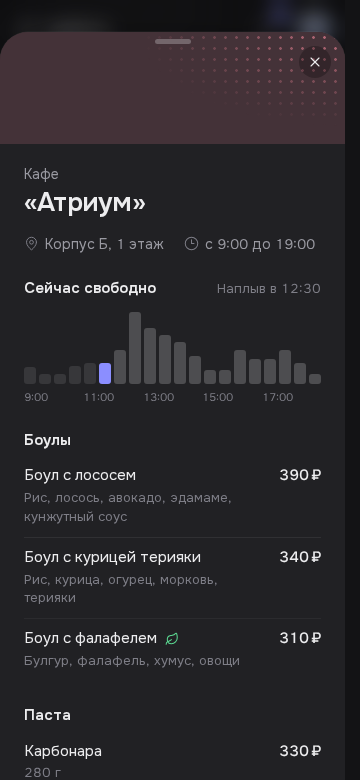
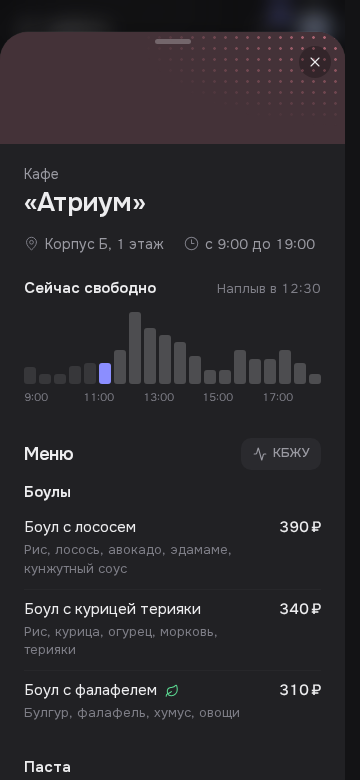
Еда: КБЖУ блюд по переключателю
У всех блюд — калории, белки, жиры и углеводы на порцию. Переключатель
«КБЖУ» над меню, по умолчанию скрыто, запоминается между заведениями.
В food-check — КБЖУ у каждого блюда во всех заведениях.

diff --git a/web/src/server/data/food.ts b/web/src/server/data/food.ts
@@ -259,6 +259,70 @@ const VENUES: Venue[] = [
   },
 ];
 
+/** КБЖУ на порцию: ккал, белки, жиры, углеводы (г). */
+const KBJU: Record<string, [number, number, number, number]> = {
+  "Комплексный обед": [885, 31, 45, 87],
+  "Вегетарианский обед": [670, 23, 27, 82],
+  "Борщ со сметаной": [150, 6, 7, 16],
+  "Суп-пюре из тыквы": [140, 3, 6, 18],
+  "Куриный суп с лапшой": [130, 9, 4, 14],
+  "Котлета по-киевски": [380, 20, 26, 14],
+  "Гуляш из говядины": [250, 22, 16, 5],
+  "Минтай, запечённый с сыром": [190, 24, 9, 3],
+  "Сырники со сметаной": [330, 18, 14, 32],
+  "Картофельное пюре": [135, 3, 5, 20],
+  "Гречка с маслом": [165, 6, 4, 27],
+  "Рис с овощами": [150, 3, 3, 28],
+  "Овощи гриль": [90, 2, 6, 8],
+  "Винегрет": [110, 2, 7, 10],
+  "Оливье": [200, 6, 16, 8],
+  "Цезарь с курицей": [310, 18, 22, 10],
+  "Пирожок с капустой": [190, 5, 6, 29],
+  "Морс клюквенный": [110, 0, 0, 27],
+  "Компот из сухофруктов": [90, 0, 0, 22],
+  "Чай чёрный": [2, 0, 0, 0],
+  "Эспрессо": [5, 0, 0, 1],
+  "Американо": [10, 0, 0, 2],
+  "Капучино": [110, 6, 6, 9],
+  "Флэт уайт": [120, 6, 7, 9],
+  "Раф ванильный": [290, 5, 18, 27],
+  "Латте «Пряная тыква»": [260, 7, 9, 38],
+  "Матча-латте": [180, 7, 7, 22],
+  "Какао с маршмеллоу": [260, 8, 9, 38],
+  "Чай листовой": [2, 0, 0, 0],
+  "Облепиховый чай": [120, 0, 2, 26],
+  "Круассан с ветчиной и сыром": [420, 17, 25, 32],
+  "Сэндвич с индейкой": [380, 24, 12, 42],
+  "Сэндвич с хумусом и овощами": [340, 11, 12, 46],
+  "Чизкейк «Нью-Йорк»": [400, 8, 27, 32],
+  "Печенье овсяное": [180, 3, 7, 27],
+  "Боул с лососем": [620, 30, 24, 68],
+  "Боул с курицей терияки": [560, 34, 12, 76],
+  "Боул с фалафелем": [520, 17, 20, 66],
+  "Карбонара": [610, 24, 28, 64],
+  "Паста с томатами и базиликом": [420, 13, 10, 70],
+  "Паста с грибами в сливках": [560, 15, 26, 66],
+  "Том ям с креветками": [210, 16, 12, 9],
+  "Крем-суп из шампиньонов": [180, 5, 13, 11],
+  "Шакшука": [260, 14, 18, 11],
+  "Гранола с йогуртом и ягодами": [330, 11, 12, 45],
+  "Омлет с сыром и зеленью": [310, 20, 24, 3],
+  "Чай в чайнике": [4, 0, 0, 1],
+  "Глинтвейн безалкогольный": [150, 0, 0, 37],
+  "Лимонад «Имбирь и лайм»": [140, 0, 0, 35],
+  "Тыквенный пирог": [360, 5, 17, 46],
+  "Брауни": [370, 5, 22, 38],
+  "Сэндвич с моцареллой и песто": [410, 16, 20, 40],
+  "Фруктовая тарелка": [100, 1, 0, 23],
+  "Смузи «Банан и шпинат»": [210, 5, 2, 44],
+  "Смузи ягодный": [190, 3, 1, 42],
+  "Апельсиновый фреш": [135, 2, 0, 31],
+  "Протеиновый коктейль": [260, 30, 5, 22],
+  "Овсянка с ягодами": [280, 9, 7, 45],
+  "Ролл с курицей": [420, 26, 14, 46],
+  "Протеиновый батончик": [200, 20, 7, 15],
+};
+
 const hhmm = (m: number) => `${String(Math.floor(m / 60)).padStart(2, "0")}:${String(m % 60).padStart(2, "0")}`;
 
 /** Перемены между парами: [конец пары, начало следующей] в минутах. */
@@ -318,7 +382,7 @@ export async function getFood(): Promise<VenueView[]> {
       close: v.close,
       color: v.color,
       perk: v.perk,
-      menu: v.menu,
+      menu: v.menu.map((sec) => ({ ...sec, items: sec.items.map((d) => (KBJU[d.name] ? { ...d, kbju: KBJU[d.name] } : d)) })),
       isOpen,
       load,
       nowIndex,

diff --git a/web/src/components/food/food-view.tsx b/web/src/components/food/food-view.tsx
@@ -2,7 +2,7 @@
 
 import { useCallback, useState } from "react";
 import Link from "next/link";
-import { BadgePercent, Clock3, Coffee, Flame, Leaf, MapPin } from "lucide-react";
+import { Activity, BadgePercent, Clock3, Coffee, Flame, Leaf, MapPin } from "lucide-react";
 import { Modal } from "@/components/time/modal";
 import { cn } from "@/lib/utils";
 import type { Dish, VenueView } from "@/server/data/food-types";
@@ -109,7 +109,7 @@ function Load({ v }: { v: VenueView }) {
   );
 }
 
-function DishRow({ d }: { d: Dish }) {
+function DishRow({ d, kbju }: { d: Dish; kbju: boolean }) {
   const sub = d.note ?? d.size;
   return (
     <li className="grid grid-cols-[minmax(0,1fr)_auto] items-baseline gap-4 py-2.5" data-dish>
@@ -122,13 +122,23 @@ function DishRow({ d }: { d: Dish }) {
           {d.tags?.includes("season") && <span className="rounded-md bg-[color-mix(in_srgb,var(--st-orange)_16%,transparent)] px-1.5 py-px text-[11px] font-medium" style={{ color: "var(--st-orange)" }}>Сезонное</span>}
         </span>
         {sub && <small className="mt-0.5 block text-[13px] text-text-3">{sub}</small>}
+        {kbju && d.kbju && (
+          <span className="mt-1.5 flex flex-wrap gap-x-3 text-[12.5px] text-text-2 tabular-nums" data-kbju>
+            <b className="font-medium text-text">{d.kbju[0]} ккал</b>
+            {(["Б", "Ж", "У"] as const).map((k, i) => (
+              <span key={k}>
+                <span className="text-text-3">{k}</span> {d.kbju![i + 1]}
+              </span>
+            ))}
+          </span>
+        )}
       </span>
       <b className="font-medium tabular-nums">{rub(d.price)}</b>
     </li>
   );
 }
 
-function VenueContent({ v }: { v: VenueView }) {
+function VenueContent({ v, kbju, onKbju }: { v: VenueView; kbju: boolean; onKbju: () => void }) {
   return (
     <>
       <div className="text-sm text-text-2">{v.kind}</div>
@@ -173,12 +183,28 @@ function VenueContent({ v }: { v: VenueView }) {
         <Load v={v} />
       </section>
 
-      {v.menu.map((s) => (
-        <section key={s.title} aria-label={s.title} className="mt-6">
+      <div className="mt-8 flex items-center justify-between gap-3">
+        <h2 className="text-lg font-semibold tracking-[-.02em]">Меню</h2>
+        <button
+          type="button"
+          aria-pressed={kbju}
+          onClick={onKbju}
+          data-kbju-toggle
+          className={cn(
+            "inline-flex h-8 items-center gap-1.5 rounded-[10px] px-3 text-[13px] font-medium transition-[background,color,transform] duration-150 active:scale-[.97]",
+            kbju ? "bg-text text-bg" : "bg-s3 text-text-2 hover:text-text",
+          )}
+        >
+          <Activity size={14} strokeWidth={1.9} />
+          КБЖУ
+        </button>
+      </div>
+      {v.menu.map((s, i) => (
+        <section key={s.title} aria-label={s.title} className={i ? "mt-6" : "mt-3"}>
           <h3 className="font-semibold">{s.title}</h3>
           <ul className="rows mt-1 [--row-inset:0px]">
             {s.items.map((d) => (
-              <DishRow key={d.name} d={d} />
+              <DishRow key={d.name} d={d} kbju={kbju} />
             ))}
           </ul>
         </section>
@@ -190,6 +216,7 @@ function VenueContent({ v }: { v: VenueView }) {
 export function FoodView({ venues, initial }: { venues: VenueView[]; initial: string | null }) {
   const [openSlug, setOpenSlug] = useState<string | null>(initial);
   const [open, setOpen] = useState(initial !== null);
+  const [kbju, setKbju] = useState(false);
   const current = venues.find((v) => v.slug === openSlug);
   const close = useCallback(() => {
     setOpen(false);
@@ -210,7 +237,7 @@ export function FoodView({ venues, initial }: { venues: VenueView[]; initial: st
         ))}
       </div>
       <Modal open={open} onClose={close} accent={`var(--c-${current?.color ?? "econ"})`} title={current?.name ?? "Заведение"} width={560} sheet="full">
-        {current && <VenueContent v={current} />}
+        {current && <VenueContent v={current} kbju={kbju} onKbju={() => setKbju((x) => !x)} />}
       </Modal>
     </>
   );

diff --git a/web/src/server/data/food-types.ts b/web/src/server/data/food-types.ts
@@ -10,6 +10,8 @@ export interface Dish {
   note?: string;
   price: number;
   tags?: DishTag[];
+  /** на порцию: ккал, белки, жиры, углеводы (г) */
+  kbju?: [number, number, number, number];
 }
 
 export interface MenuSection {

diff --git a/docs/vision.md b/docs/vision.md
@@ -192,3 +192,4 @@
 - 2026-11-22: «Красная кнопка» (`/redbutton`, плитка на «Сегодня» в «Ещё», пункт в меню профиля у всех ролей) — по мотивам горячей линии «Выразительная кнопка» ВШЭ: жалоба, благодарность или предложение уходят в приёмную ректора, оттуда — в подразделение. Адресат выбирается из справочника: мои преподаватели наверху, все преподаватели, сотрудники и службы (вымышленные, `src/lib/appeals.ts`) или «Университет в целом». Анонимность — выбор «От кого»: своё имя или «Анонимно» (два варианта рядом; переключатель в строке автора оказался непонятным). Автор хранится, чтобы видеть свои обращения, но ректорат имени не видит. В отличие от ВШЭ, где ответ приходит на почту, у нас трекер «как у посылки» (отправлено → приёмная ректора → передано → ответ), срок ответа 5 дней и уведомление об ответе. Не больше 5 обращений в сутки.
 - 2026-11-22: «Аудитории» — бронь на три недели вперёд вместо одной (по просьбе пользователя): полоса по-прежнему из 6 дней, над ней диапазон дат и стрелки ‹ › (3 страницы, воскресенья пропускаются, до 9 декабря на демо-часах). Чужие брони на 2–3 неделе в сиде реже, чем на ближайшей. Лимит «не больше 3 броней вперёд» и отметка по Орбита ID не меняются.
 - 2026-11-22: «Еда» (`/food`, плитка «Еда» на «Сегодня» в «Ещё»): столовая, две кофейни-кафе, терраса библиотеки и фреш-бар — часы, «открыто сейчас», загруженность по получасам, меню с ценами и пометками (вегетарианское, острое, сезонное, новинка). Только просмотр, без предзаказа (решение пользователя). Меню — каталог в коде (`server/data/food.ts`), как сетка звонков: оно общее и не персональное. Загруженность считается от сетки звонков — наплыв на переменах, сильнее всего на большой (12:30–13:00), поэтому в 11:49 в столовой «свободно, наплыв в 12:30». Связка с Random Coffee: место встречи — ссылка на окно кафе (`/food?place=<slug>`), на карточке кафе — отметка встречи этой недели. Помощник отвечает на «где поесть» и «что в столовой».
+- 2026-11-22: «Еда» — КБЖУ (по просьбе пользователя, «health-фишка»): у каждого блюда калории, белки, жиры и углеводы на порцию. По умолчанию скрыто, чтобы меню оставалось коротким; включается переключателем «КБЖУ» над меню и остаётся включённым при переходе к другому заведению.

diff --git a/docs/design.md b/docs/design.md
@@ -221,6 +221,8 @@
 
 Сетка карточек заведений, как у клубов: обложка цвета, тип мелкой надписью, короткое имя («Большая перемена», а не «Столовая „Большая перемена“» — тип уже над ним), место строкой, вложенная плашка с главным блюдом («Обед дня», «Сезонное», «Новинка») и ценой, внизу — «Открыто до 18:00» с точкой и загруженность тремя столбиками. Окно по клику (на телефоне — шторка во весь экран): место, часы, скидка по Орбита ID, встреча Random Coffee, «Сейчас свободно / Наплыв в 12:30» и столбцы по получасам (сейчас — акцентом, прошедшее бледнее), дальше меню разделами строками «название — цена», вес или состав второй строкой.
 
+КБЖУ — переключатель-чип «КБЖУ» справа от заголовка «Меню»; включённый — третья строка у блюда: «885 ккал» плотнее, «Б 31  Ж 45  У 87» буквами третичного цвета, разделение воздухом.
+
 ## Открытые вопросы
 
 - Мини-иллюстрации плиток: решено — рисуем кодом (SVG). v4: `mockups/today-desktop-v4.html`.
